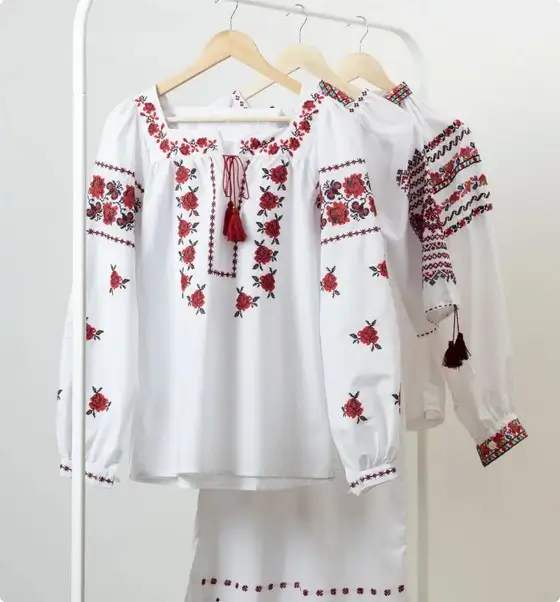
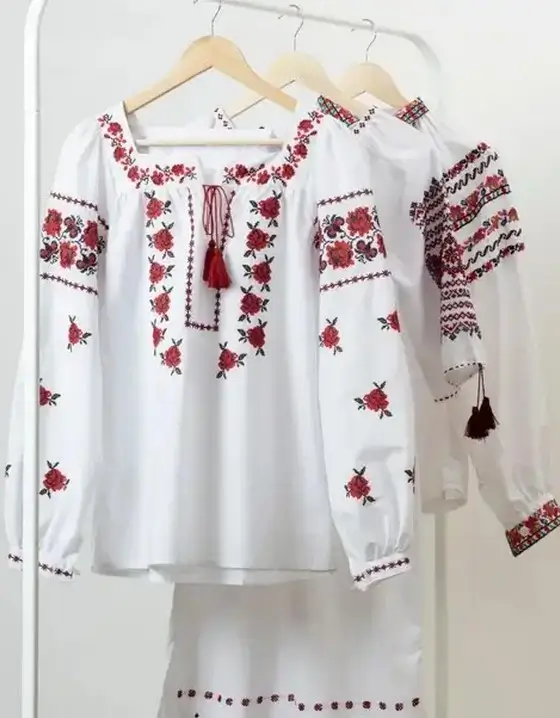
change size flip-img

diff --git a/src/css/our-collection.css b/src/css/our-collection.css
@@ -104,7 +104,7 @@
 .back {
   object-fit: cover;
   width: 100%;
-  height: 430px;
+  max-height: 430px;
 }
 .flip-block-inner {
   position: relative;
